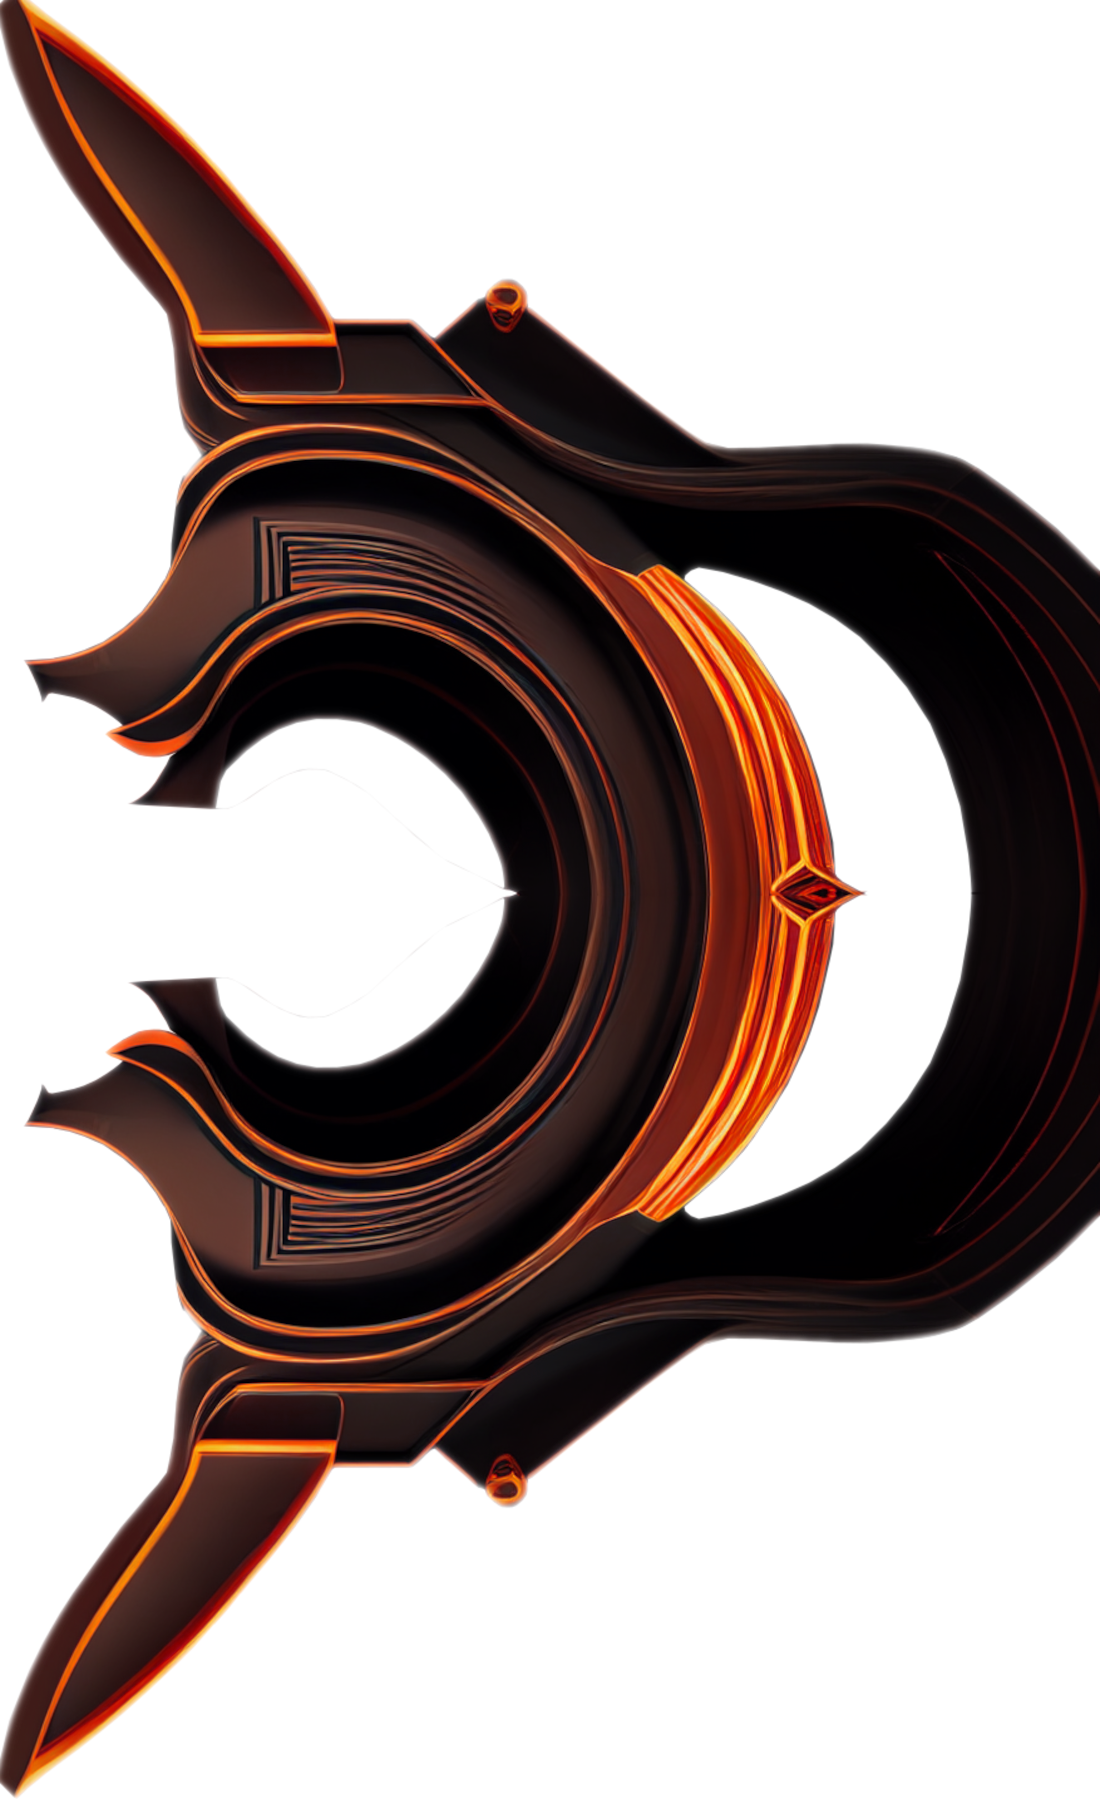
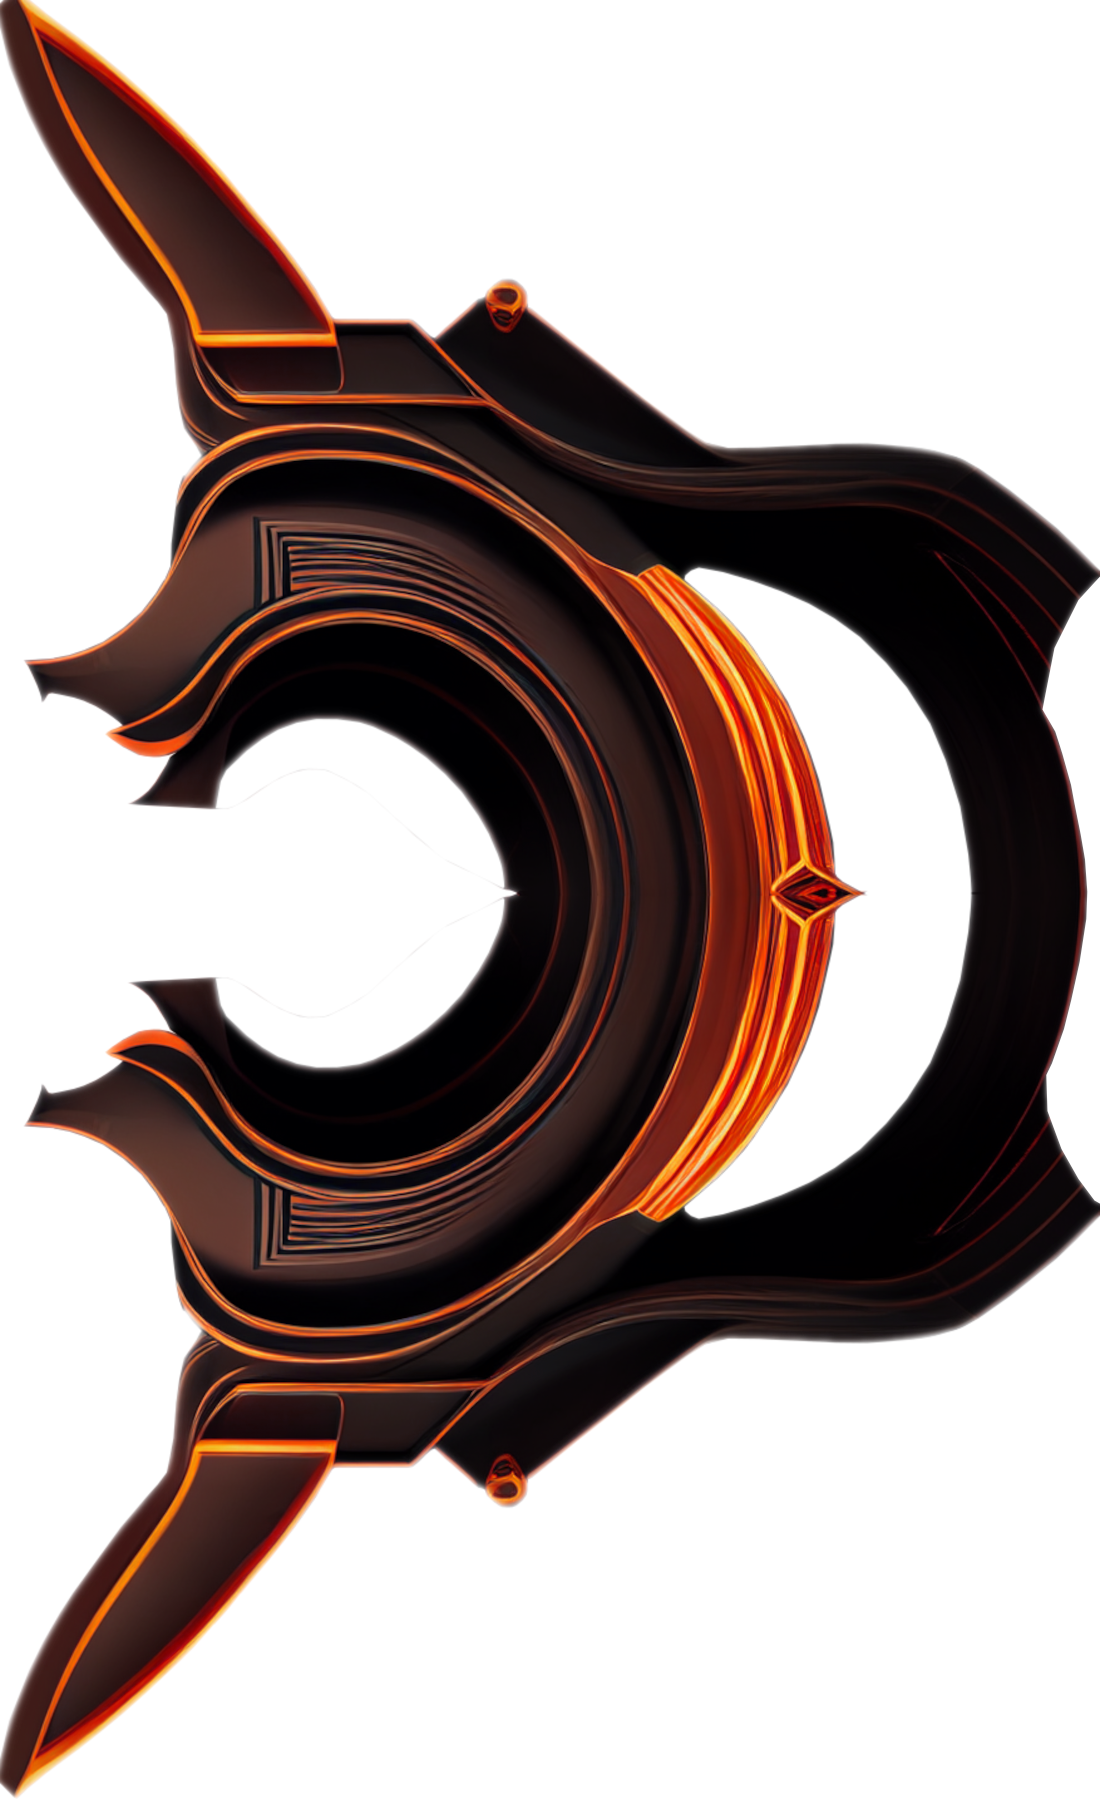
responsiveness work

Changed region(s): [[0.9273, 0.3113, 1.0, 0.6848]]

diff --git a/codebase/scripts.js b/codebase/scripts.js
@@ -1,3 +1,6 @@
+const viewportWidth = window.innerWidth;
+const viewportHeight = window.innerHeight;
+
 const layer1 = document.querySelector('.layer-1');
 const layer1Part2 = document.querySelector('.layer-1-part2');
 const layer2 = document.querySelector('.layer-2');
@@ -65,13 +68,13 @@ const subjectInput = document.querySelector('.form-input-subject');
 const submitBtn = document.querySelector('.submit-btn');
 const submitModal = document.querySelector('.submit-modal');
 
-const handleIntroAnimation = (e) => {
-  cornerLogo.classList.add('corner-logo-transition');
-  linkedinLink.classList.add('linkedin-transition');
-  githubLink.classList.add('github-transition');
-};
+// const handleIntroAnimation = (e) => {
+//   cornerLogo.classList.add('corner-logo-transition');
+//   linkedinLink.classList.add('linkedin-transition');
+//   githubLink.classList.add('github-transition');
+// };
 
-window.addEventListener('load', handleIntroAnimation);
+// window.addEventListener('load', handleIntroAnimation);
 
 const handleAnimations = (e) => {
   console.log(`handle animations triggered`);
@@ -98,6 +101,8 @@ const handleAnimations = (e) => {
       layer1Animation(e); // default? Call a default function if none of the elements have the "active" class
   }
 };
+
+// L1 ANIMATIONS/TRANSITIONS
 
 const layer1Animation = (e) => {
   const delta = Math.sign(e.deltaY);
@@ -169,7 +174,9 @@ const layer1Part2Animation = (e) => {
   }
 };
 
-// L2 ANIMATIONS
+// L1 RESPONSIVENESS
+
+// L2 ANIMATIONS/TRANSITIONS
 
 const layer2Animation = (e) => {
   const delta = Math.sign(e.deltaY);
@@ -264,6 +271,10 @@ const hideLayer2Content = () => {
     'mission-transition-hide'
   );
 };
+
+// L2 RESPONSIVENESS
+
+// LAYER 3
 
 const layer3Animation = (e) => {
   const delta = Math.sign(e.deltaY);
@@ -414,26 +425,36 @@ const returnToFrontAnimation = () => {
   }
 };
 
+// L3 RESPONSIVENESS
+
+// const l3BackgroundCenterHeight = viewportHeight * 0.7;
+// const l3BackgroundCenterWidth = viewportWidth * 0.7;
+// l3BackgroundCenter.style.height = `${l3BackgroundCenterHeight}px`;
+// l3BackgroundCenter.style.width = `${l3BackgroundCenterWidth}px`;
+// l3BackgroundCenter.style.top = `calc(50vh - ${l3BackgroundCenterHeight}px / 2)`;
+// l3BackgroundCenter.style.left = `calc(50vw - ${l3BackgroundCenterWidth}px / 2)`;
+// myElement.style.transform = 'translate(-50%, -50%)';
+
 // Set L2 tech icons in circle
 
-function arrangeInCircle(radius, elements) {
-  const container = document.getElementById('container');
-  const angle = (2 * Math.PI) / elements.length; // Calculate the angle between each element
-  const containerWidth = container.offsetWidth;
-  const containerHeight = container.offsetHeight;
-  const centerX = containerWidth / 2;
-  const centerY = containerHeight / 2;
+// function arrangeInCircle(radius, elements) {
+//   const container = document.getElementById('container');
+//   const angle = (2 * Math.PI) / elements.length; // Calculate the angle between each element
+//   const containerWidth = container.offsetWidth;
+//   const containerHeight = container.offsetHeight;
+//   const centerX = containerWidth / 2;
+//   const centerY = containerHeight / 2;
 
-  for (let i = 0; i < elements.length; i++) {
-    const element = elements[i];
-    const angleOffset = angle * i;
-    const x = Math.cos(angleOffset) * radius + centerX;
-    const y = Math.sin(angleOffset) * radius + centerY;
+//   for (let i = 0; i < elements.length; i++) {
+//     const element = elements[i];
+//     const angleOffset = angle * i;
+//     const x = Math.cos(angleOffset) * radius + centerX;
+//     const y = Math.sin(angleOffset) * radius + centerY;
 
-    element.style.left = x + 'px';
-    element.style.top = y + 'px';
-  }
-}
+//     element.style.left = x + 'px';
+//     element.style.top = y + 'px';
+//   }
+// }
 
 const screenWidth = window.innerWidth;
 let radius = 265;
@@ -444,7 +465,7 @@ if (screenWidth <= 1400) {
 }
 
 const elements = document.getElementsByClassName('circle-element');
-arrangeInCircle(radius, elements);
+// arrangeInCircle(radius, elements);
 
 // CONTACT FORM FUNCTIONALITY
 
@@ -529,11 +550,11 @@ const showSubmitModal = () => {
   }, 4000);
 };
 
-submitBtn.addEventListener('click', (e) => {
-  e.preventDefault();
-  showSubmitModal();
-  returnToFrontAnimation();
-});
+// submitBtn.addEventListener('click', (e) => {
+//   e.preventDefault();
+//   showSubmitModal();
+//   returnToFrontAnimation();
+// });
 
 // Enforce a delay between animations
 let lastScrollTime = 0;

diff --git a/codebase/styles.css b/codebase/styles.css
@@ -337,11 +337,6 @@ body {
 
 /* LAYER 2 */
 
-.layer-2 {
-  /* width: 100%;
-  height: 100%; */
-}
-
 .l2-center-top-left {
   z-index: 800;
   position: absolute;
@@ -828,10 +823,10 @@ body {
   background-size: contain;
   background-repeat: no-repeat;
   background-position: center;
-  height: 75vh;
+  /* height: 75vh;
   width: 33vw;
   left: 33.3vw;
-  top: 0;
+  top: 0; */
 }
 
 .l3-foreground-bottom {
@@ -889,11 +884,6 @@ body {
   background-position: center;
   background-repeat: no-repeat;
   background-size: contain;
-  height: 70vh;
-  width: 70vw;
-  top: 17vh;
-  left: 15vw;
-  transform: scale(0.8);
 }
 
 .l3-background-center-transition {
@@ -1361,23 +1351,27 @@ label[for='subject'] {
   /* Layer 3 */
 
   .l3-foreground-top {
-    height: 50vh;
-    width: 80vw;
-    max-width: 360px;
-    left: calc(50vw - 40vw);
-    top: 14vh;
+    height: 60vh;
+    width: 84vw;
+    left: 8vw;
+    top: 10vh;
+    transform: translate(-50% -50%);
   }
 
   .l3-foreground-bottom {
-    height: 180px;
-    width: 56vw;
-    max-width: 300px;
-    left: calc(50vw - 28vw);
-    bottom: 20.5vh;
+    height: 20vh;
+    width: 80vw;
+    left: 10vw;
+    bottom: 20vh;
+    transform: translate(-50% -50%);
   }
 
   .l3-background-center {
-    transform: scale(1.2);
+    height: 70vh;
+    width: 70vw;
+    top: 15vh;
+    left: 15vw;
+    transform: scale(0.8) translate(-50% -50%);
   }
 
   .form-header {
@@ -1390,13 +1384,13 @@ label[for='subject'] {
 }
 
 @media screen and (min-width: 504px) {
-  .l3-foreground-top {
+  /* .l3-foreground-top {
     left: calc(50vw - 180px);
   }
 
   .l3-foreground-bottom {
     left: calc(50vw - 150px);
-  }
+  } */
 }
 
 /* Medium devices */
@@ -1526,16 +1520,15 @@ label[for='subject'] {
     bottom: 12vh;
   }
 
-  .l3-foreground-top {
-    min-width: 400px;
+  .l3-foreground-bottom {
+    height: 200px;
+    width: 400px;
     left: calc(50vw - 200px);
+    bottom: calc(50vh - 320px);
   }
 
-  .l3-foreground-bottom {
-    height: 180px;
-    max-width: 350px;
-    left: calc(50vw - 175px);
-    bottom: calc(50vh - 220px);
+  .l3-background-center {
+    transform: scale(0.75);
   }
 }
 
@@ -1716,23 +1709,27 @@ label[for='subject'] {
   }
 
   .l3-foreground-top {
-    height: 68vh;
-    top: calc(50vh - 260px);
-    max-height: 370px;
+    height: 75vh;
+    width: 36vw;
+    top: 0;
+    left: 32vw;
   }
 
   .l3-foreground-bottom {
-    bottom: calc(50vh - 210px);
+    height: 40vh;
+    width: 40vw;
+    bottom: 10vh;
+    left: 30vw;
   }
 
   .l3-background-center {
-    transform: scale(0.8);
+    transform: scale(0.7);
   }
 }
 
 /* X-large devices */
 
-/* @media screen and (min-width: 1200px) {
+@media screen and (min-width: 1200px) {
   .form-header {
     top: 15vh;
     left: 45.4vw;
@@ -1751,4 +1748,10 @@ label[for='subject'] {
     left: calc(50vw - 200px);
     bottom: -1vw;
   }
-} */
+
+  /* Layer 3 */
+
+  .l3-foreground-bottom {
+    bottom: 10vh;
+  }
+}

diff --git a/codebase/index.html b/codebase/index.html
@@ -56,7 +56,7 @@
     </section> -->
 
     <section class="layer-2">
-      <div class="center-parts">
+      <!-- <div class="center-parts">
         <div class="l2-center-top-left"></div>
         <div class="l2-center-top-right"></div>
         <div class="l2-center-bottom-left"></div>
@@ -72,7 +72,7 @@
         <div class="cornerparts-top-right"></div>
         <div class="cornerparts-bottom-left"></div>
         <div class="cornerparts-bottom-right"></div>
-      </div>
+      </div> -->
 
       <!-- <div class="tech-stack">
         <div class="mission">
@@ -157,9 +157,9 @@
         ></textarea>
         <button class="submit-btn">Send</button>
       </form> -->
-      <p class="submit-modal">
+      <!-- <p class="submit-modal">
         Thanks for contacting me! I'll be in touch shortly.
-      </p>
+      </p> -->
     </section>
 
     <script src="scripts.js"></script>
